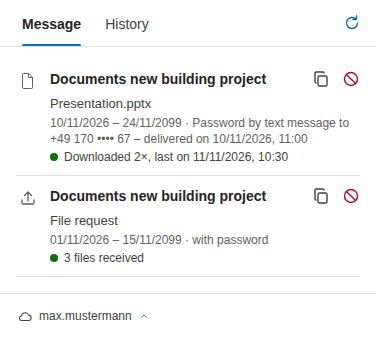
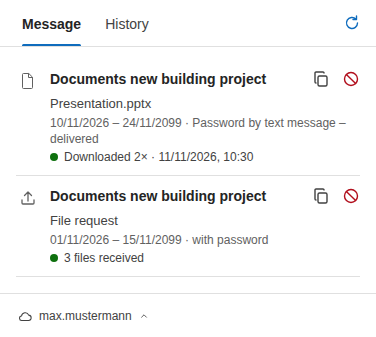
Read-mode test: the short password line; README pictures

Changed region(s): [[0.3803, 0.3858, 0.8191, 0.5045], [0.117, 0.3858, 0.3511, 0.4451], [0.8777, 0.3561, 0.9362, 0.3858]]

diff --git a/addin/e2e/taskpane.e2e.ts b/addin/e2e/taskpane.e2e.ts
@@ -1591,7 +1591,8 @@ test("reading a mail: tabs 'Nachricht' and 'Verlauf', nothing to insert", async 
   const inMail = page.locator("#mail-shares .share");
   await expect(inMail).toHaveCount(2);
   await expect(inMail.nth(0).locator(".share-name")).toHaveText("Präsentation.pptx");
-  await expect(inMail.nth(0).locator(".share-password")).toContainText("zugestellt am 10.11.2026, 11:00 Uhr");
+  await expect(inMail.nth(0).locator(".share-password")).toHaveText("Kennwort per SMS – zugestellt");
+  await expect(inMail.nth(0).locator(".share-password")).toHaveAttribute("title", /zugestellt am 10.11.2026, 11:00 Uhr/);
   await expect(inMail.nth(1).locator(".share-item")).toHaveText("Dateianforderung");
   await expect(page.locator("#mail-none")).toBeHidden();
   // Reading a mail too: "Aktualisieren" in the tab bar, the account at the bottom.
